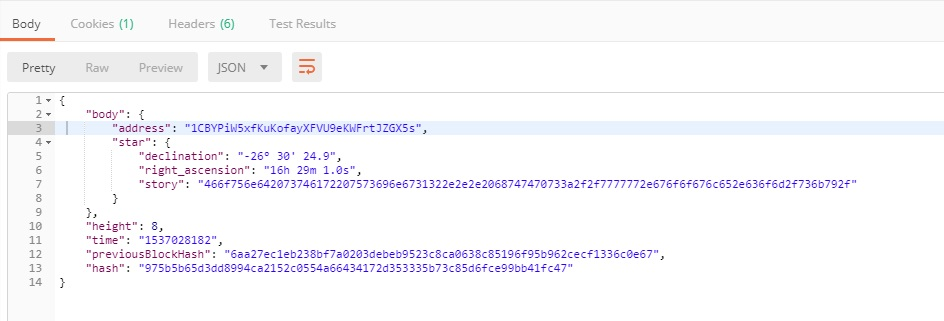
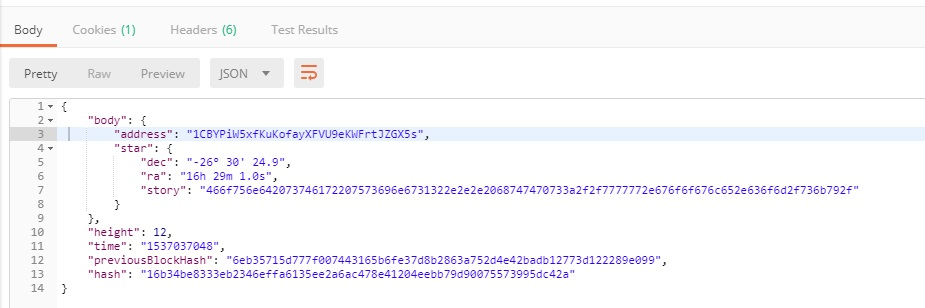
updated blockcontroller,validationcontroller,messagesignaturecontroller

diff --git a/WebServices/myRestApp/api/controllers/ValidateController.js b/WebServices/myRestApp/api/controllers/ValidateController.js
@@ -17,46 +17,21 @@ module.exports = {
              let body = req.body;//req.param("BlockchainId");
              let blockchainId = body.address;
              console.log("chainid:" + blockchainId);
-             let time = new Date().getTime().toString().slice(0,-3);
+            let time = Math.floor(Date.now() / 1000);//time in seconds
+            // let time = new Date().getTime().toString().slice(0,-3);
+             //let timeinsecs = new Date().getTime().toString().slice(0,-3);
              //check if the request is already there or not
             
              if(blockchainId)
              {
-             let respObj = {};
-             if (BlockchainData.validated.includes(blockchainId)) //if the user has his request validated and signature verified
-             {
-                respObj.message = "This address is already validated. Go ahead and register a star";
-                return res.ok(respObj);
-             }
-             else{
-                     if (blockchainId in BlockchainData.validationBlocks)//if user has initiated request for validation 
-                        {
-                            let validationReqBlock = BlockchainData.validationBlocks[blockchainId];//get the request from the stored object
-                            //check if the user is verified or not
-                
-                 
-                            if (BlockchainData.validatedRequest.includes(blockchainId))//if signature is verified the validate it
-                                {
-                                 respObj.address = validationReqBlock.userId;
-                                respObj.message = validationReqBlock.userId + ":" + validationReqBlock.timeStamp + ":starRegistry";
-                                respObj.requestTimestamp =  validationReqBlock.timeStamp;
-                                respObj.ValidationWindow = 300000 - (time - validationReqBlock.timeStamp); 
-                                 BlockchainData.validated.push(blockchainId);//add to the validated queue
-                                 BlockchainData.validatedRequest.pop(blockchainId);//remove the verified request
-                                 delete BlockchainData.validationBlocks[blockchainId];//remove the initial request
-                                 console.log("valBlk:" + BlockchainData.validationBlocks[blockchainId]);
-                                 }                         
-                            else
-                                 {
-                                 respObj.address = blockchainId,
-                                 respObj.message = blockchainId + ":" + validationReqBlock.timeStamp + ":starRegistry <- Please sign this message on the left to prove your identity";
-                                 respObj.requestTimestamp =  validationReqBlock.timeStamp;
-                                 respObj.ValidationWindow = 300000 - (time - validationReqBlock.timeStamp); //reduce the time window
-                                 }
-                         }
-                
-             
-                    else{
+                 let respObj = {};
+                 if (BlockchainData.validated.includes(blockchainId)) //if the user has his request validated and signature verified
+                    {
+                         respObj.message = "This address is already validated. Go ahead and register a star";
+                        return res.ok(respObj);
+                     }
+                else{             
+                   
                             //if not then start the initial request
                             const validationReqBlock = {
                             userId: blockchainId,
@@ -67,21 +42,20 @@ module.exports = {
                              BlockchainData.validationBlocks[blockchainId] = validationReqBlock;
                             //set a timeout of 5 minutes i.e 5 * 60 * 1000 to remove the request from validation routine if not validated
                             setTimeout(function(){
-                                delete BlockchainData.validationBlocks[blockchainId];
-                            //BlockchainData.validationBlocks[blockchainId] = null;
+                                delete BlockchainData.validationBlocks[blockchainId];                            
                              },300000);
-                            //blockchainId + ":" + validationBlock.time +":" + "starRegistry";
+                            
              
-                             respObj.address = blockchainId,
-                            respObj.message = validationReqBlock.userId + ":" + validationReqBlock.timeStamp + ":starRegistry <- Please sign this message on the left to prove your identity";
+                            respObj.address = blockchainId,                            
                             respObj.requestTimestamp =  validationReqBlock.timeStamp;
-                            respObj.ValidationWindow = 300000; 
-                        }
-                        return res.ok(respObj);
+                            respObj.message = validationReqBlock.userId + ":" + validationReqBlock.timeStamp + ":starRegistry";
+                            respObj.validationWindow = 300; //in seconds
+                            return res.ok(respObj);
+                    }
+                       
                
-             }
-             
-            }
+                }          
+            
             else{
                     return res.ok("{Error: No values supplied for address}");
                  }

diff --git a/WebServices/myRestApp/api/controllers/MessageSignatureController.js b/WebServices/myRestApp/api/controllers/MessageSignatureController.js
@@ -20,7 +20,7 @@ module.exports = {
             let body = req.body;
              let walletAddress = body.address;//req.param("WalletAddress");
              let signature = body.signature;//req.param("MessageSignature");
-             let time = new Date().getTime().toString().slice(0,-3);
+             let time = Math.floor(Date.now() / 1000);//time in secondsnew Date().getTime().toString().slice(0,-3);
              let respObj = {};
              let emptyFields = [];
              if (!walletAddress) 
@@ -50,49 +50,47 @@ module.exports = {
                      if (walletAddress in BlockchainData.validationBlocks)//if the user has made the initial request
                         {
                             console.log("wallet:" + BlockchainData.validationBlocks[walletAddress]);
-                            if (BlockchainData.validatedRequest.includes(walletAddress))
-                                respObj.message = "The signature of this address is already verified. Please validate it again"
-                            else{
+                            // if (BlockchainData.validatedRequest.includes(walletAddress))
+                            //     respObj.message = "The signature of this address is already verified. Please validate it again"
+                            // else{
                                 //validate signature
                                 let validateBlock = BlockchainData.validationBlocks[walletAddress];
                                 let message = validateBlock.message;
                                 let isVerified = bitcoinMessage.verify(message,walletAddress,signature);
                                 if(isVerified)
                                  {
-                                 BlockchainData.validatedRequest.push(walletAddress);
-                                //now send the response
-                                //let respObj = {};
-                                respObj.registerStar = "true";
-                                let status = 
-                                  { address: validateBlock.userId,
-                                    requestTimeStamp: validateBlock.timeStamp,
+                                    BlockchainData.validated.push(walletAddress);
+                                    //now send the response
+                                    //let respObj = {};
+                                    respObj.registerStar = "true";
+                                    let status = 
+                                     { address: validateBlock.userId,
+                                     requestTimeStamp: validateBlock.timeStamp,
                                      message: validateBlock.userId + ":" + validateBlock.timeStamp + ":starRegistry",
-                                     validationWindow: 300000 - (time - validateBlock.timeStamp),
+                                     validationWindow: 300 - (time - validateBlock.timeStamp),
                                     messageSignature: "valid"
                                     }
                                 respObj.status = status;
                                 }
-                             else{
-                                 //let respObj = {};
-                                 respObj.registerStar = "false";
+                                else{
+                                    //let respObj = {};
+                                    respObj.registerStar = "false";
                                     let status = 
                                          {address: validateBlock.userId,
                                           requestTimeStamp: validateBlock.timeStamp,
                                           message: validateBlock.userId + ":" + validateBlock.timeStamp + ":starRegistry",
-                                         validationWindow: 300000 - (time - validateBlock.timeStamp),
-                                         messageSignature: "invalid"
+                                          validationWindow: 300 - (time - validateBlock.timeStamp),
+                                          messageSignature: "invalid"
                                          }
-                                 respObj.status = status;
+                                    respObj.status = status;
 
-                                 }
-                                }
-                 
-                
-                         }
-                         else{
+                                    }
+                            }              
+                         
+                        else{
                                 // need to try again as the validation window may have expired
                 
-                                 respObj.message = "Record not found. Please initiate the validateRequest again from the beginning";                    
+                                 respObj.message = "Record not found.Validation window may have expired. Please initiate the validateRequest again from the beginning";                    
                      
                              }
                      }

diff --git a/WebServices/myRestApp/api/controllers/BlockController.js b/WebServices/myRestApp/api/controllers/BlockController.js
@@ -42,7 +42,7 @@ module.exports = {
            let address = body.address;//req.param("WalletAddress");
            let star = body.star;
            if (!address)
-            return res.ok("{Error:No values supplied for WalletAddress}");
+            return res.ok("{Error:No values supplied for address}");
            if (BlockchainData.validated.includes(address)){
                 //if (address in validateBlockContainer.validated){
                 //let star = req.param("star");
@@ -51,13 +51,13 @@ module.exports = {
                 //check for star properties
                 let emptyFields = [];
                 if (!address) 
-                emptyFields.push("WalletAddress");
+                emptyFields.push("address");
             
-                if (!star.right_ascension) 
-                emptyFields.push("right_ascension");
+                if (!star.ra) 
+                emptyFields.push("right_ascension(ra)");
             
-                if (!star.declination)
-                emptyFields.push("declination");
+                if (!star.dec)
+                emptyFields.push("declination(dec)");
 
                 if (!star.story)
                 emptyFields.push("story");
@@ -85,6 +85,7 @@ module.exports = {
                      let blkheight = blockchain.getBlockHeight();
                     let newblock = blockchain.getBlock(blkheight);
                     BlockchainData.validated.pop(address); //user can request one star for each validation request
+                    delete BlockchainData.validationBlocks[address];
                     return res.ok(newblock);
                  }
              }

diff --git a/WebServices/myRestApp/api/models/BlockchainData.js b/WebServices/myRestApp/api/models/BlockchainData.js
@@ -5,7 +5,7 @@
 
 var self = module.exports ={
     validationBlocks : {},//stores the initial validate request object
-    validatedRequest : [],//stores the wallet address of the verified signature 
+    //validatedRequest : [],//stores the wallet address of the verified signature 
     validated : [],// this stores the wallet address of the verified and validated request
     chain : [] 
 

diff --git a/WebServices/myRestApp/README.md b/WebServices/myRestApp/README.md
@@ -51,7 +51,7 @@ GET request at http://localhost:8000/csrfToken
 
 ##  API Endpoints
 
-a) Configure Blockchain ID validation routine. This routine will     allow users to request ownership of a star and validate their     request to grant ownership of a star.The Web API will allow       users to submit their request using their wallet address.The      web API will accept a Blockchain ID (The Blockchain ID is your    wallet address) with a request for star registration.
+a) Configure Blockchain ID validation routine. This routine will     allow users to request ownership of a star and validate their     request to grant ownership of a star.The Web API will allow       users to submit their request using their wallet address.The      web API will accept a Blockchain ID i.e. address (The Blockchain address is your    wallet address) with a request for star registration.
    The users Blockchain ID will be stored with a timestamp.
    This timestamp is used to time wall the user request for star registration.After submitting a request, the user will receive a response in JSON format with a message to sign.
    In the event the time expires, the address is removed from the validation routine forcing the user to restart the process.
